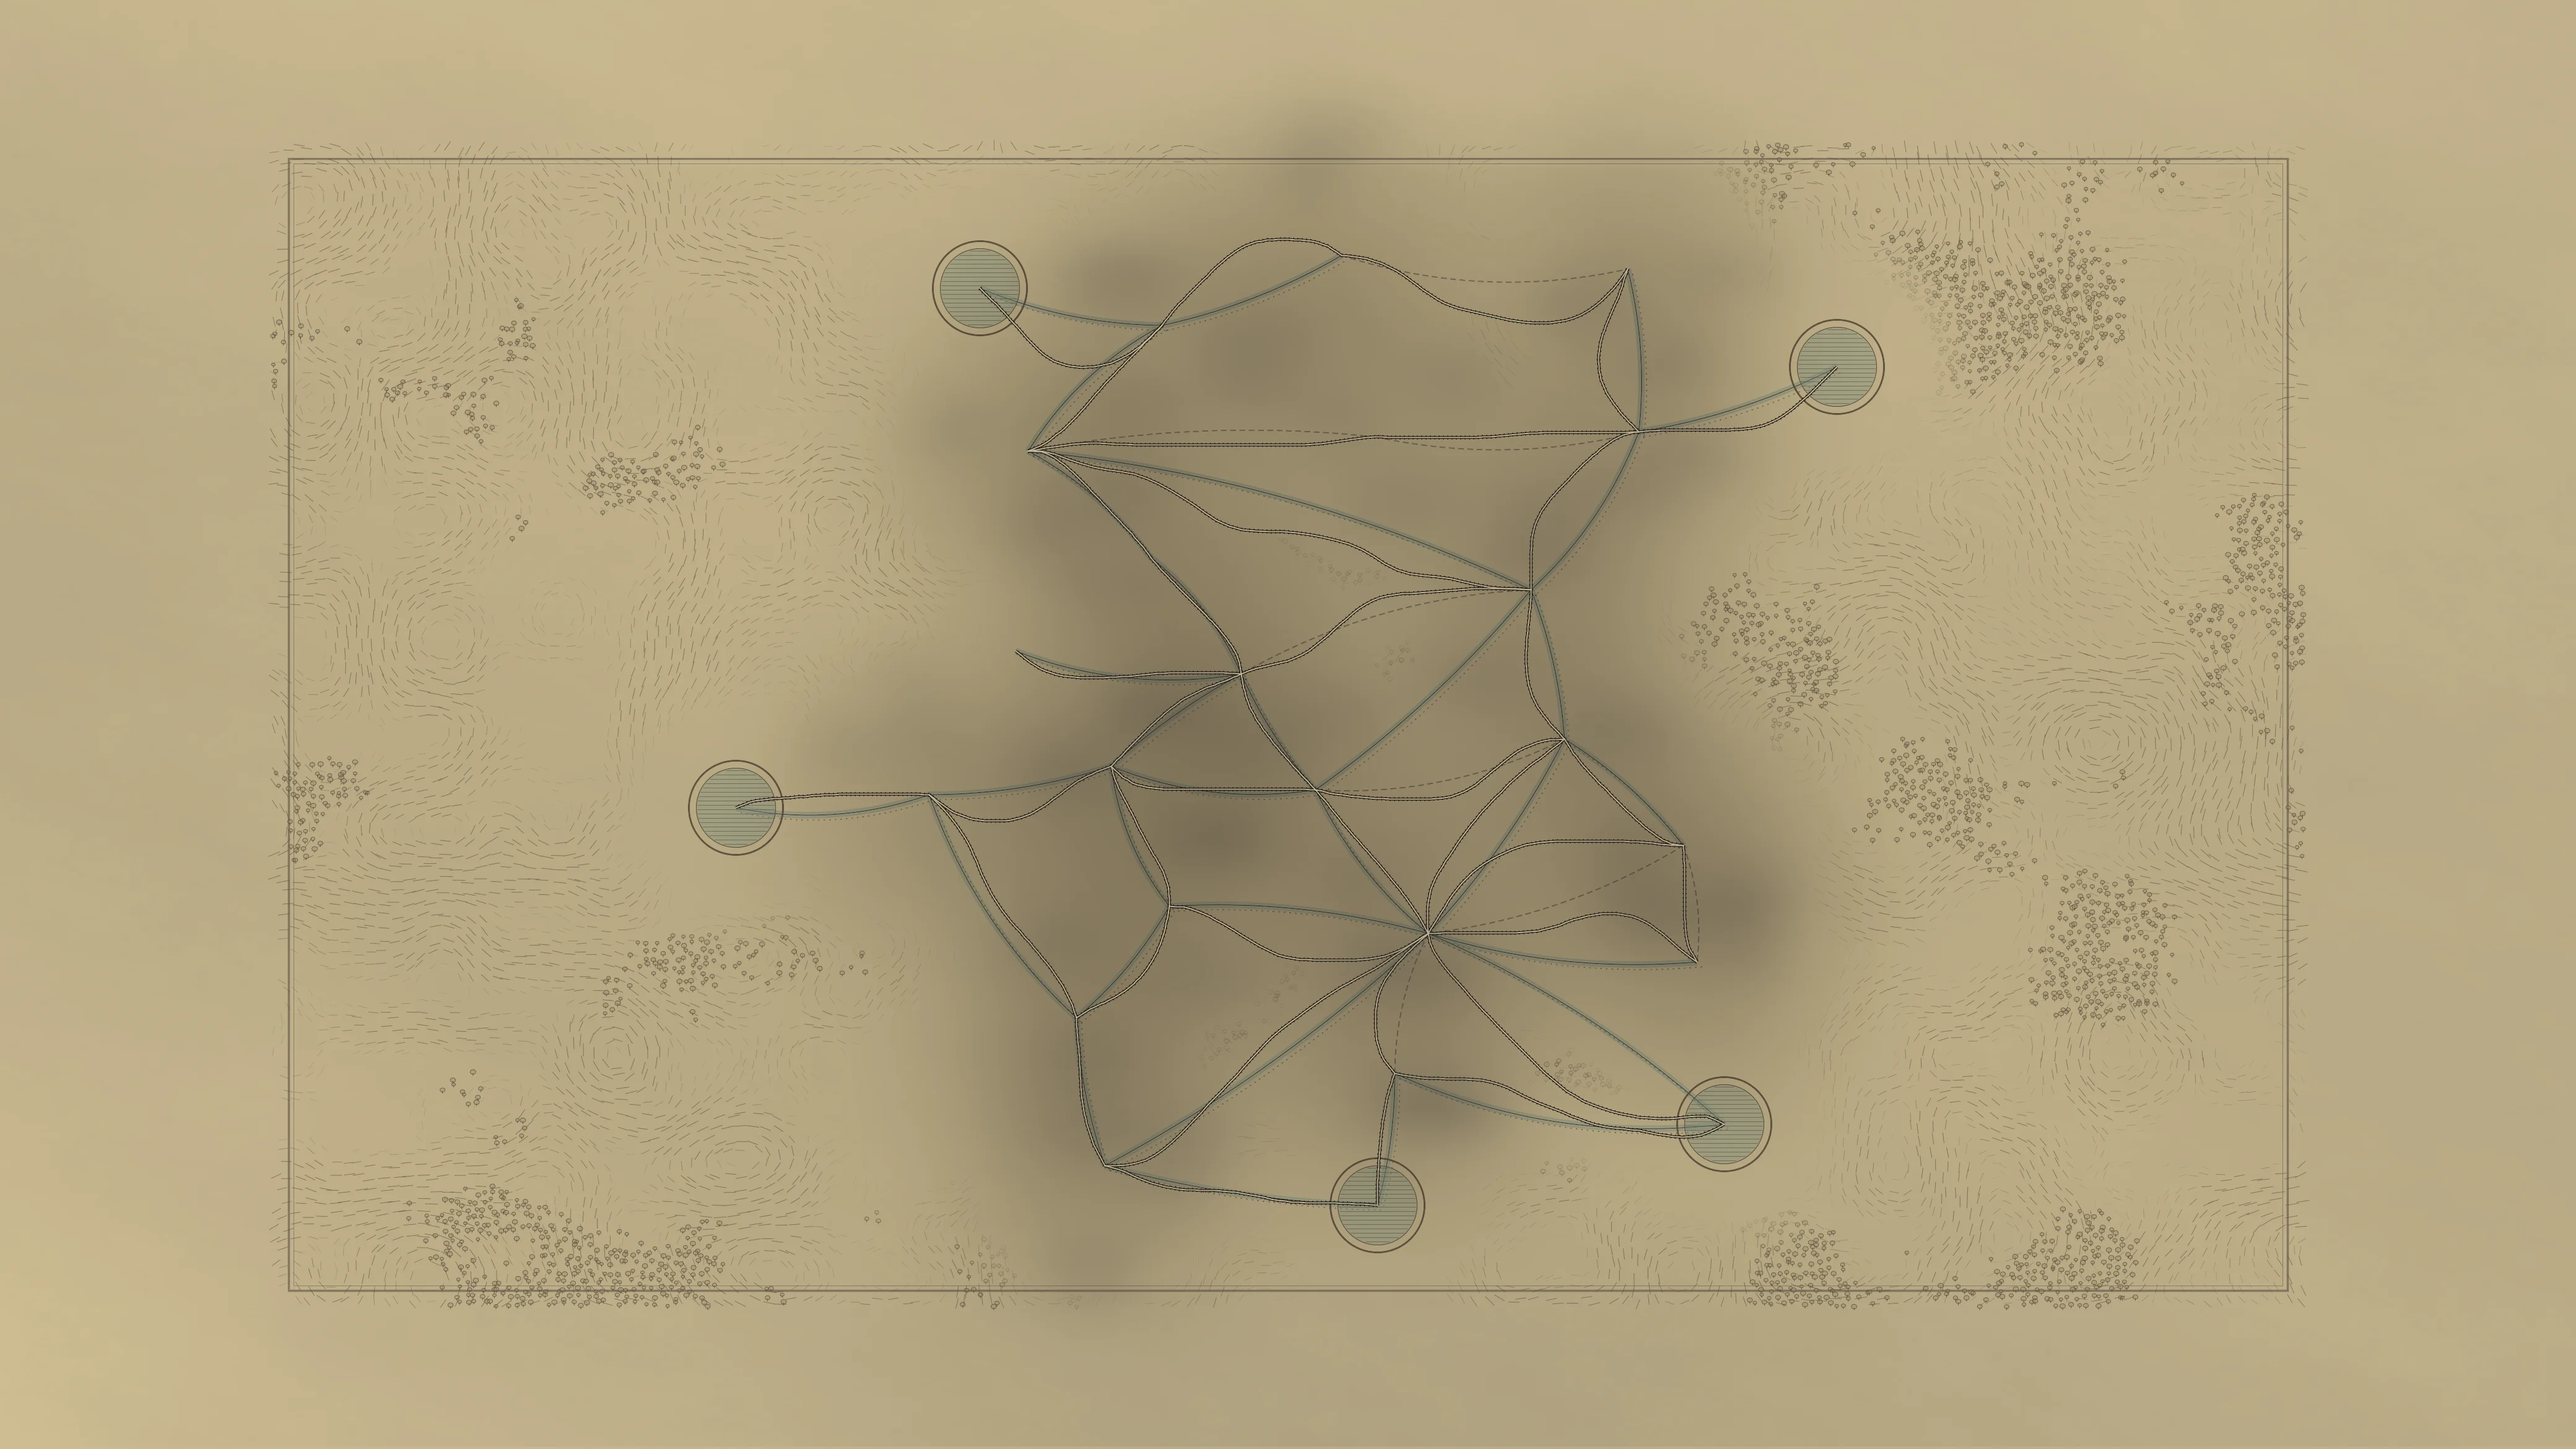
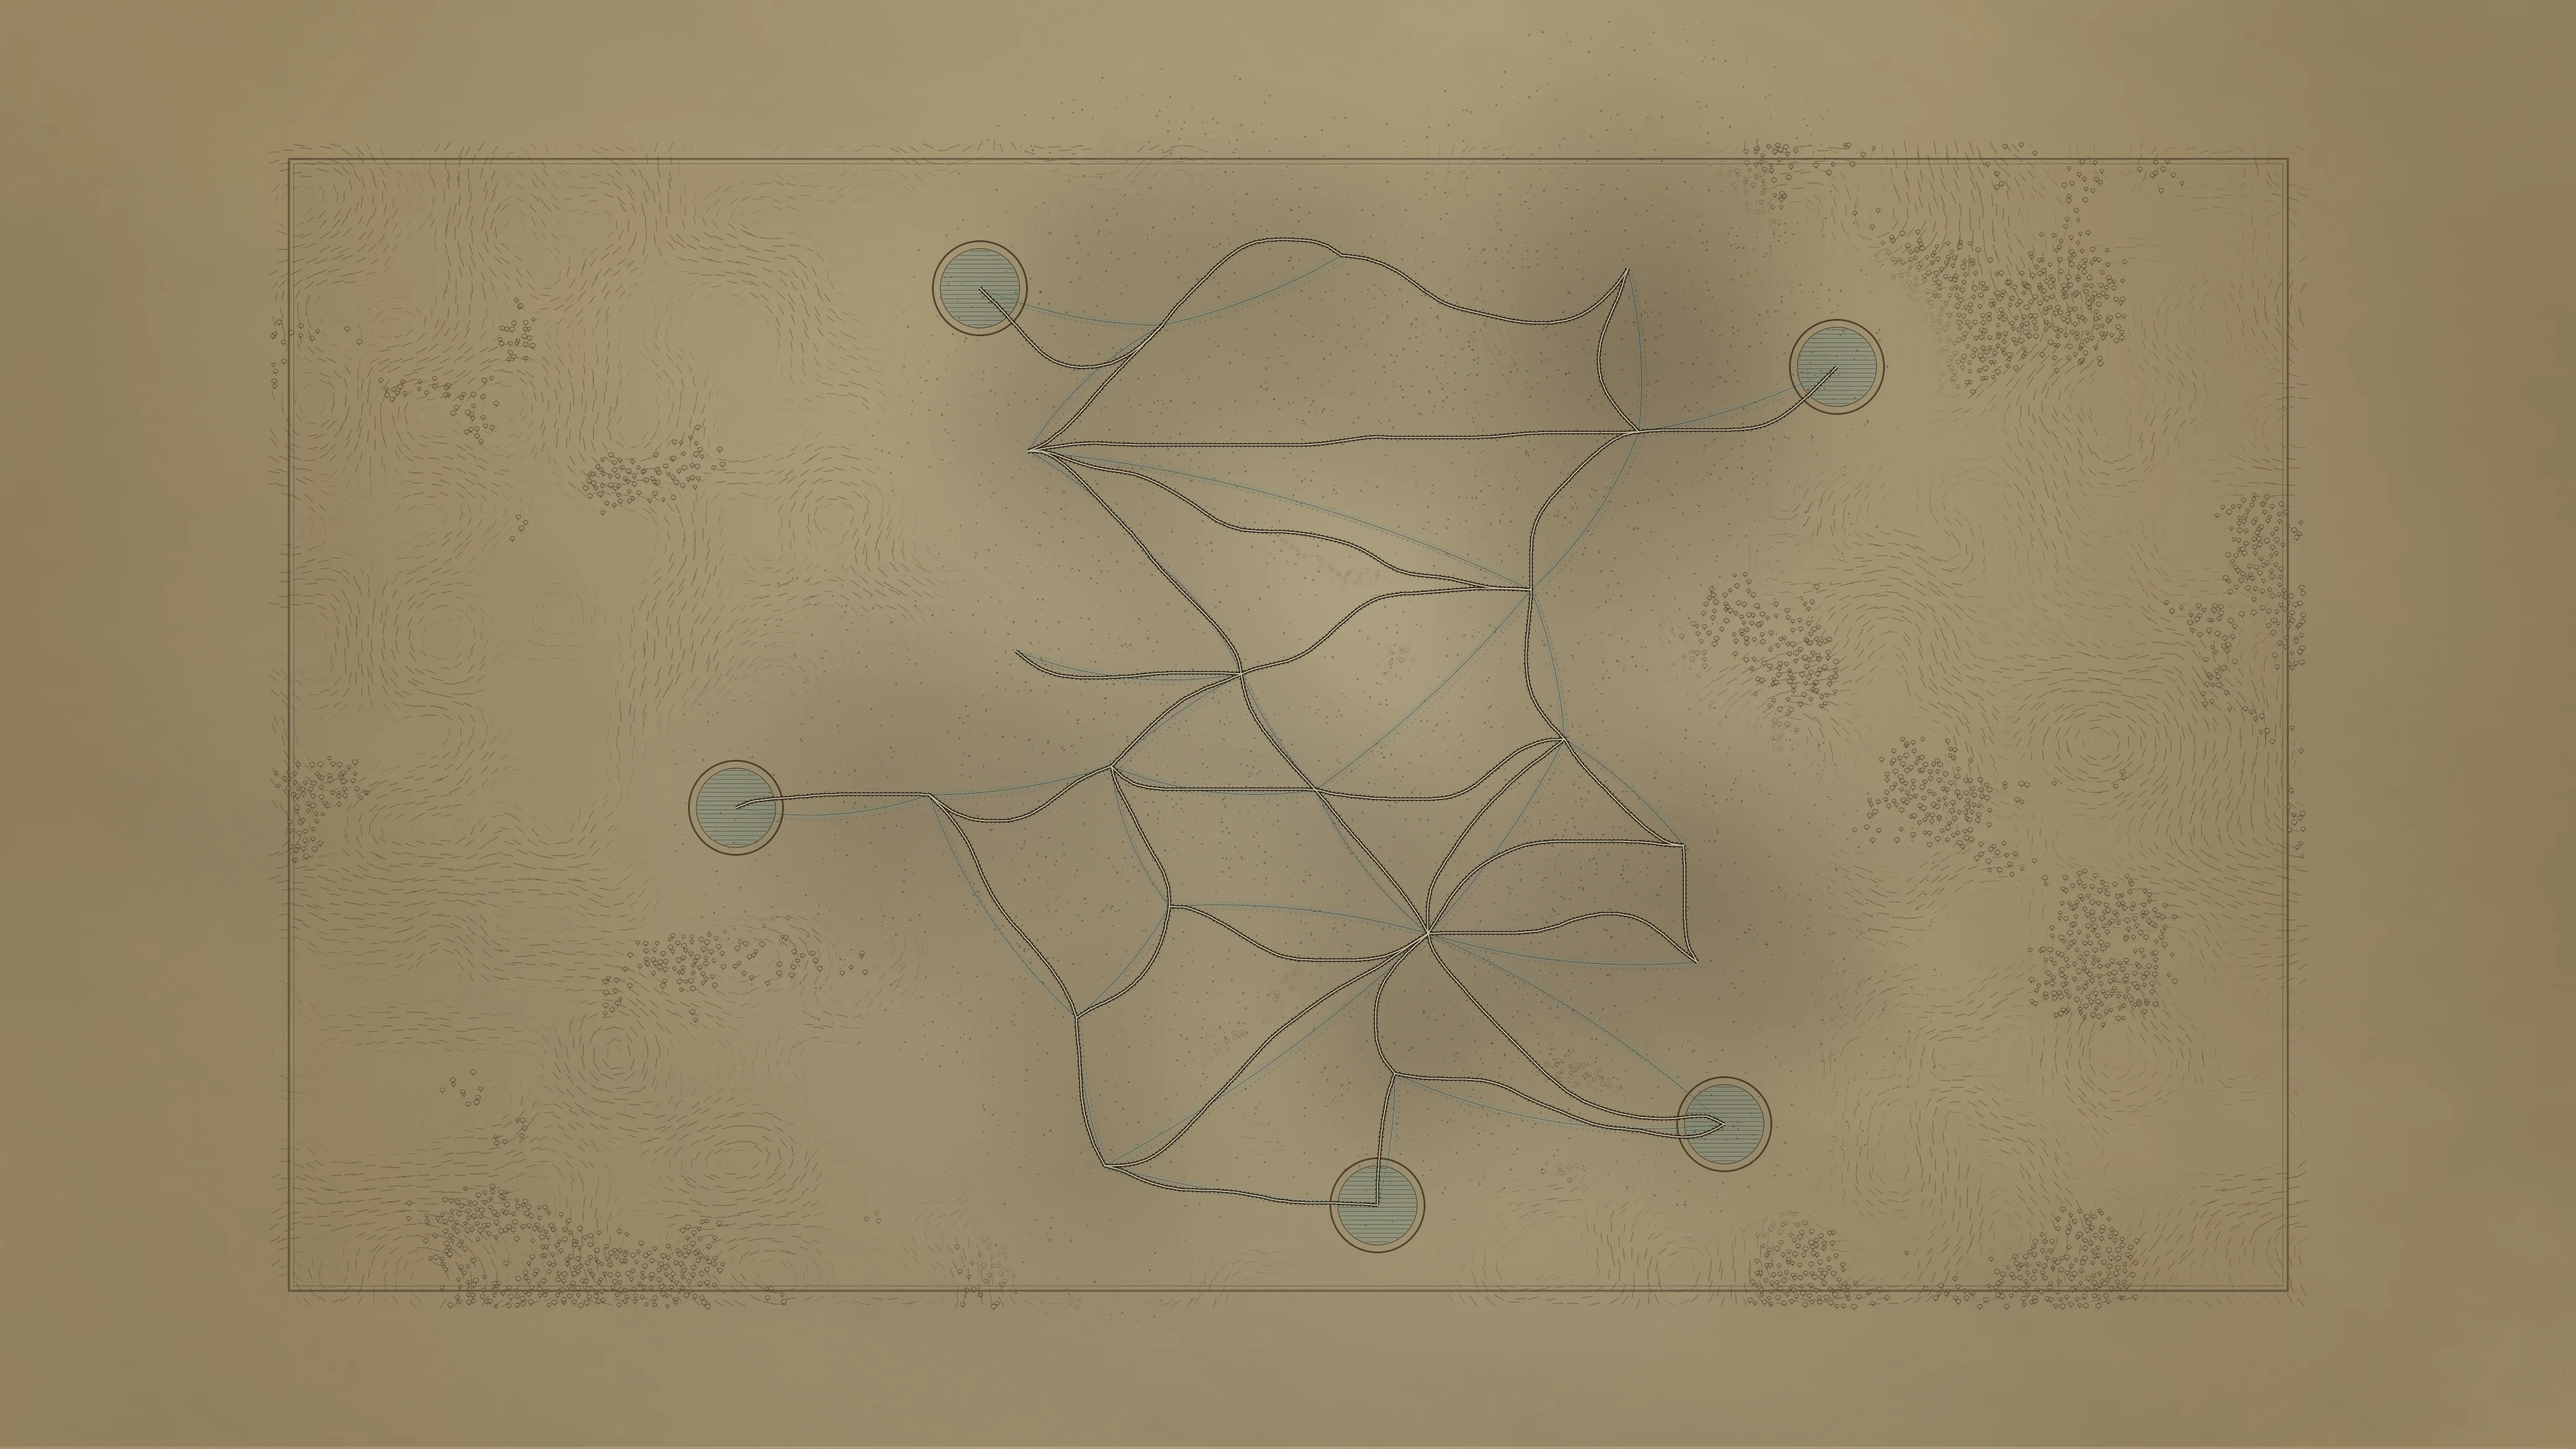
feat(assets): the rail era sheet older and dirtier
A touch of ochre, faint foxing, the edges smoke-darkened; a soot haze
and coal dust around the big towns only; the canals fade to second rank
and the survey lines become the rail ladders.

diff --git a/tools/map/engrave.py b/tools/map/engrave.py
@@ -98,17 +98,21 @@ open(f'{out}/rail.txt', 'w').write('\n'.join(poly(l.get('railPts') or l['pts']) 
 
 # under the towns the sheet stays bare: the board lays its own hamlet
 # there (town-hamlet-*.webp), the church and the roofs showing between
-# the cards. Soot and smoke for the Rail Era.
-soot, smoke = [], []
+# the cards. The Rail Era's dirt: a soot haze over the big towns, coal
+# dust speckled around them.
+soot, dust = [], []
 for t in g['towns']:
     cx, cy = X(t['x']), Y(t['y'])
     if t['farm']: continue
-    soot.append(f'circle {cx},{cy} {cx + 210},{cy}')
-    for _ in range(3):
-        a = rng.random() * math.tau; d = 60 + rng.random() * 140
-        smoke.append(f'ellipse {cx + math.cos(a) * d:.1f},{cy + math.sin(a) * d:.1f} {50 + rng.random()*60:.0f},{18 + rng.random()*20:.0f} 0,360')
+    big = len(t['slots']) >= 3
+    soot.append(f'circle {cx},{cy} {cx + (260 if big else 130)},{cy}')
+    for _ in range(420 if big else 90):
+        a = rng.random() * math.tau; d = 60 + (rng.random() ** 0.6) * (360 if big else 200)
+        px, py = cx + math.cos(a) * d, cy + math.sin(a) * d
+        r = 0.6 + rng.random() * 0.9
+        dust.append(f'circle {px:.1f},{py:.1f} {px + r:.1f},{py:.1f}')
 open(f'{out}/soot.txt', 'w').write('\n'.join(soot))
-open(f'{out}/smoke.txt', 'w').write('\n'.join(smoke))
+open(f'{out}/dust.txt', 'w').write('\n'.join(dust))
 # merchant basins: a stone ring, water hatched inside
 open(f'{out}/basin-outer.txt', 'w').write('\n'.join(f'circle {x},{y} {x + 76},{y}' for x, y in merch))
 open(f'{out}/basin-inner.txt', 'w').write('\n'.join(f'circle {x},{y} {x + 64},{y}' for x, y in merch))
